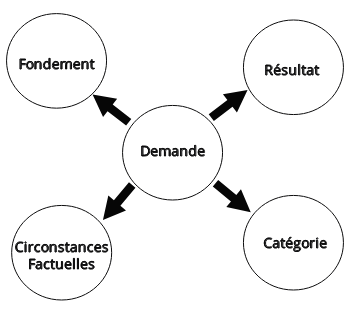
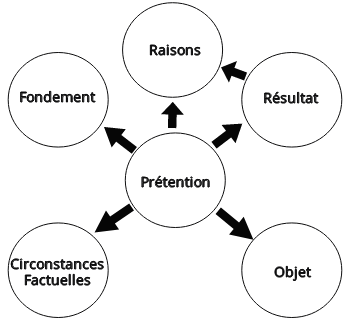
1

diff --git a/content/introduction.tex b/content/introduction.tex
@@ -4,84 +4,110 @@
 
 \section{Contexte et Motivations}
 \label{sec:intro:contexte}
-Une décision judiciaire peut être définie soit comme  le résultat rendu par des juges à l'issue d'un procès, ou bien un document décrivant une affaire judiciaire en résumant les faits, les procédures suivies, la solution des juges, et les raisons qui les y ont conduits. \textcolor{red}{UNE DÉCISION JURISPRUDENTIELLE vs. DÉCISION JUDICIAIRE?}. Un corpus de décisions jurisprudentielles ou une jurisprudence\footnote{\url{http://www.toupie.org/Dictionnaire/Jurisprudence.htm}} est par conséquent un ensemble de décisions rendues par les tribunaux et qui représente la manière dont les tribunaux interprètent le droit et les lois pour résoudre un problème juridique donné (type de contentieux). Les décisions sont des documents rédigés par des juges et par conséquence, elles regroupent les éléments de l'affaire\footnote{Depuis le véritable début du contentieux} que ces juges ont retenu comme étant importants à considérer pour prendre leurs décisions sur les prétentions des différentes parties. La compréhension des décisions tourne donc autour des demandes des parties et résultats des juges.
+Une décision jurisprudentielle peut être définie soit comme  le résultat rendu par des juges à l'issue d'un procès, ou bien un document décrivant une affaire judiciaire. Un tel document rapporte, en fait,  les faits, les procédures judiciaires, la solution des juges, et les raisons qui les y ont conduits. Dans ce mémoire, nous désignons par \og décision \fg{} le document, et par  \og résultat\fg{} la conclusion, ou réponse, ou solution finale des juges. Une jurisprudence\footnote{\url{http://www.toupie.org/Dictionnaire/Jurisprudence.htm}} est un ensemble de décisions rendues par les tribunaux et qui représente la manière dont ces derniers interprètent les lois pour résoudre un problème juridique donné (type de contentieux). Les juristes doivent collecter ces documents, en sélectionner et analyser pour leurs études. En effet, leur analyse aide à mieux comprendre la prise de décision des juridictions, par exemple, pour des recherches empiriques en droit \citep{ancel2003expulsion, jeandidier2006pensions}. Les avocats exploitent aussi les décisions passées pour anticiper les résultats des juges. Ils peuvent ainsi mieux conseiller leurs clients sur le risque judiciaire que ces derniers encourent, et sur la stratégie à adopter dans un contentieux. Cette activité de collecte et d'analyse est manuelle en général, et par conséquent, sujette à plusieurs difficultés liées à l'accès aux données et à l'exhaustivité de cette analyse. 
 
-Les décisions judiciaires sont essentielles pour les juristes qui ont l'habitude d'en collecter, sélectionner et analyser pour résoudre les problèmes auxquels ils s'intéressent afin de mieux comprendre \citep{ancel2003expulsion} et anticiper (par ex. les avocats pour leur clients) les décisions des juges. Généralement manuelle, cette analyse rencontre quelques limites. D'abord, l'accès à un corpus exhaustif de décisions est difficile vu l'énorme volume de décisions réparti dans les juridictions (plus de 4 millions de décisions en France par an d'après les chiffres du ministère français de la justice \footnote{\url{http://www.justice.gouv.fr/budget-et-statistiques-10054/chiffres-cles-de-la-justice-10303/}} comme l'illustre le Tableau \ref{tab:intro:nbdecisionstats}). Malgré la disponibilité d'un nombre important de décisions en ligne, les moteurs de recherche juridiques proposent essentiellement des critères à mots-clés. 
-\begin{table}[ht]
-{
-\scriptsize
+Les documents sont dispersés entre les tribunaux. Les procédures administratives ne facilitent pas toujours leur accès du fait de la nécessité de préserver la confidentialité des parties. Les décisions n'étant pas anonymisées ne peuvent être rendues aux juristes qui en font la demande. Un certain nombre de documents sont néanmoins accessibles sur internet grâce à des sites de publication de données ouvertes gouvernementales comme \url{data.gouv.fr} qui applique progressivement la loi sur les données ouvertes ??? en publiant régulièrement les décisions récentes.  Il existe aussi des moteurs de recherche juridique qui permettent d'effectuer de retrouver des décisions intéressantes. Cependant, qu'ils soient payant (LexisNexis, dalloz, lamy,...) ou gratuits (legifrance), leurs critères de recherche limitent la pertinence des résultats. En effet, il ne s'agit en général que de combinaisons de mots-clés et autres métadonnées (date, type de juridiction, ...), ou d'expressions régulières, comme l'illustre la Figure \ref{fig:intro:juriSearchForm}. Ces critères manquent la sémantique juridique qui ramènerait, aux juristes, des échantillons plus pertinents. 
+
+\begin{figure}
+	\centering
+	\begin{subfigure}[t]{0.95\textwidth}
+		\centering
+		\includegraphics[width=0.9\textwidth]{legifrance.PNG}
+		\caption{\url{www.legifrance.gouv.fr}}
+	\end{subfigure}%
+
+	\begin{subfigure}[t]{0.45\textwidth}
+		\centering
+		\includegraphics[scale=0.4]{dalloz.png}
+		\caption{\url{www.dalloz.fr}}
+	\end{subfigure}\hfill
+	\begin{subfigure}[t]{0.55\textwidth}
+		\centering
+		\fbox{\includegraphics[scale=0.35]{lexisnexis.png}}
+		\caption{\url{www.lexisnexis.com}}
+	\end{subfigure}%
+	\caption{Exemples de critères des moteurs de recherche juridique}\label{fig:intro:juriSearchForm}
+\end{figure}
+
+L'exhaustivité de l'analyse, ou tout au moins sa représentativité, rencontre un frein face à l'énorme volume existant de documents. En effet, plus de 4 millions de décisions sont prononcées en France par an d'après les chiffres du ministère français de la justice (Tableau \ref{tab:intro:nbdecisionstats}). Au regard de la croissance rapide de la quantité de décisions, on imagine facilement que même pour une étude sur une question très précise, le corpus utile reste large. Par ailleurs, il peut s'avérer très pénible de lire les décisions pour en identifier les données d'intérêt. Les documents sont très souvent longs. Ils sont aussi complexes dans leur style de rédaction. Par exemple, les phrases sont longues et comprennent plusieurs clauses discutant parfois d'aspects différents. On y retrouve aussi des références à des jugements antérieurs, et des omissions, ...
+\begin{table}
+\small
 \begin{center}
-\begin{tabular}{|l|c|c|c|c|c|}
-\hline
- & \textbf{2010} & \textbf{2011} & \textbf{2012} & \textbf{2013} & \textbf{2014} \\
- \hline
- \textbf{Justice civile} & 2 673 131  & 2 654 179 & 2 647 813 & 2 761 554  & 2 618 374 \\
- \hline
-Justice pénale & 1 173 242 & 1 180 586 & 1 251 979 & 1 303 469 & 1 203 339 \\
- \hline
- Justice administrative & 224 787 & 225 608 & 228 680 & 221 882 & 230 477 \\
- \hline
+\begin{tabular}{|l|l|l|l|l|l|}
+	\hline
+\textbf{Justice}	& \textbf{2013}      & \textbf{2014}      & \textbf{2015}      & \textbf{2016}      & \textbf{2017}      \\ \hline
+	civile         & 2 761 554 & 2 618 374 & 2 674 878 & 2 630 085 & 2 609 394 \\ \hline
+	pénale         & 1 303 469 & 1 203 339 & 1 206 477 & 1 200 575 & 1 180 949 \\ \hline
+	administrative & 221 882   & 230 477   & 228 876   & 231 909   & 242 882   \\ \hline
 \end{tabular}
 
-\textit{\scriptsize{Source: \url{http://www.justice.gouv.fr/budget-et-statistiques-10054/chiffres-cles-de-la-justice-10303/}}}  
+\textit{\scriptsize{Source: \url{http://www.justice.gouv.fr/statistiques-10054/chiffres-cles-de-la-justice-10303/}}}  
 \end{center}
-}
-\caption{Nombre de décisions prononcées en France par an de 2010 à 2014}\label{tab:intro:nbdecisionstats}
+\caption{Nombre de décisions prononcées en France par an de 2013 à 2017}\label{tab:intro:nbdecisionstats}
 \end{table}
 
-D'autre part, l'analyse manuelle de décisions peut devenir pénible lorsque les documents sont longs et nombreux.  Par ailleurs, la justice est complexe et son langage difficilement compréhensible \citep{cretin2014justicecomplexe} pour permettre aux non-juristes d'estimer le risque judiciaire qu'ils encourent sans l'aide d'un initié en droit. D'une part, une analyse automatisée des décisions jurisprudentielles peut aider des avocats et chercheurs en droit à comprendre l'opinion des juges sur certaines questions. L'exigence pour le profane étant l'exacte pertinence des resources, leur accessibilité, et l'intituivité du processus de leur exploition \citep{narazenko2017legalnlpintro}. D'autre part, elle constitue potentiellement une aide précieuse pour les particuliers et entreprises soucieux de connaitre les chances que leurs requêtes aboutissent en justice.  De telles analyses sont indispensables pour les pratiquants du droit car elles fournissent un ensemble important d'information d'une valeur inestimable dont notamment un aperçu de l'application de la loi. L'extraction automatique d'information pertinente à cette étude aiderait à mieux décrire et organiser les décisions tout en enrichissant les critères de recherche avec par exemple les noms de juges ou les articles de loi. Ce mémoire présente les résultats d'une étude visant à automatiser l'extraction d'information à partir de ces documents afin de faciliter la recherche et les analyses descriptives et prédictives d'un corpus jurisprudentiel. La principale motivation est l'exhaustivité qui passe nécessairement par un traitement rapide et efficace de la grande masse de documents produit par la justice. La question à la base de notre étude est celle de savoir "Comment exploiter un corpus de décisions pour analyser, voire prédire, les décisions des juges sachant que l'interprétation subjective des règles juridiques rend l'application de la loi non déterministe ?". Cette question intéresse de nombreuses entreprises telles que LexisNexis avec son système LexMachina\footnote{\url{https://lexmachina.com}}, et de jeunes startups françaises telles que Predictice\footnote{\url{http://predictice.com}} et CASE LAW ANALYTICS\footnote{\url{http://caselawanalytics.com}}. Afin d'y répondre, nous sommes partis d'une conception théorique considérant la demande ou prétention des parties comme le concept central d'une décision (Figure \ref{fig:intro:demande-central}) et tout autour s'affectent d'autres concepts, notamment, le résultat des juges relatif à cette prétention, le fondement juridique de la prétention ou norme, la catégorisation des prétentions, et ensuite les différentes circonstances factuelles dans lesquelles cette prétention est généralement formulée. 
 
-\begin{figure}[h]
+%\textcolor{red}{Introduire l'utilité de l'automatisation}
+Il est évident qu'une automatisation du traitement des corpus de décisions s'impose pour répondre aux diverses difficultés d'accès, de volumétrie, et de complexité liées à la compréhension des décisions. L'idée est de faire gagner du temps aux juristes sur des tâches d'aide à leur raisonnement d'experts, tout en leur fournissant une vue pertinente de la jurisprudence autant sur le plan sémantique que synthétique. Par ailleurs, \citet{cretin2014justicecomplexe} fait remarquer que la justice est complexe dans son organisation (Figure \ref{orgjusticefrance}) et son fonctionnement, et son langage est presque incompréhensible. Il est donc difficile aux profanes d'estimer leurs droits et le risque judiciaire qu'ils encourent dans leur quotidien sans consulter un initié en droit. L'automatisation pourrait aussi améliorer l'accessibilité du droit dans ce cas.  L'exigence pour le profane étant l'exacte pertinence des ressources, leur accessibilité, et l'intuitivité du processus de leur exploitation \citep{narazenko2017legalnlpintro}. Le traitement automatique constitue en résumé une aide précieuse non seulement pour les professionnels du droit, mais aussi pour les particuliers et entreprises soucieux de les chances que l'issue d'un procès, les impliquant, leur soit favorable. Une telle information a une valeur inestimable car elle les aiderait par exemple à se décider entre un arrangement à l'amiable et la poursuite de leur offenseur en justice \citep{langlaischappe2009ecoresolutionlitige}.
+
+\begin{figure}
+	\centering \includegraphics[width=0.9\textwidth]{organisation_justice_francaise_grand.jpg}
+	
+	\textit{\scriptsize{Source: \url{http://www.justice.gouv.fr/organisation-de-la-justice-10031/}}}  
+	\caption{Organisation des institutions judiciaires françaises} \label{orgjusticefrance}
+\end{figure}
+
+\section{Objectifs}
+%\textcolor{red}{Description d'une approche traditionnelle, exemple d'études, difficultés de ces études}
+ Ce mémoire discute des résultats d'une étude visant à automatiser l'extraction d'information à partir des décisions afin de faciliter la recherche, et les analyses descriptives et prédictives d'un corpus jurisprudentiel. L'approche traditionnelle d'analyse d'un contentieux ou d'une demande \citep{ancel2003expulsion} consiste à :
+ \begin{enumerate}
+ 	\item \textbf{choisir un échantillon représentatif}: collection des décisions suivant des contraintes définies:  période précise et d'une couverture géographique, types d'affaires (types d' évidents et types marginaux), diversité, hétérogénéité. 
+ 	\item \textbf{Sélectionner les décisions}: élimination des décisions qui ne correspondent pas au type de demande d'intérêt.
+ 	\item \textbf{Elaborer la grille d'analyse}: création d'un modèle de grille (tableau) qui permettra d'enregistrer les informations "potentiellement importantes". Chaque ligne correspond à une demande et les colonnes sont les différents types d'informations qu'on peut extraire sur une demande. Ces variables vont de la procédure suivie, aux solutions proposées en passant par la nature de l'affaire. Les champs à remplir ne sont pas connus à l'avance; c'est la lecture des décisions qu'on retrouve les informations qui paraissent intéressant à observer.
+ 	\item \textbf{L'analyse des décisions et l'interprétation des informations}: saisie des décisions et statistique sur un logiciel tableur comme MS Excel pour généralement observer la répartition des décisions suivant.
+ \end{enumerate}
+ 
+\citet{ancel2003expulsion} évoque principalement le problème de la différence entre l'état capté de la jurisprudence et son état présent. En effet, Les longs délais de travail sont caractéristiques de ces études. Nous avons pour exemple, l'analyse empirique des déterminants de la fixation de pensions alimentaires pour enfant lors de divorce réalisée par l'équipe de Bruno Jeandidier \citep{jeandidier2006pensions}. Cette analyse a duré 9 mois pour l'extraction manuelle des informations et la modélisation par régression de la relation entre les déterminant extraits et les pensions alimentaires accordées.  D'autre part, il est impossible d'observer l'évolution des pratiques judiciaires dans le temps et dans l'espace du fait de la faible taille de l'échantillon choisie. Notre principal objectif est donc de proposer des solutions pour un traitement rapide et efficace d'une grande masse de décisions. 
+ 
+ La question à la base de notre étude est celle de savoir \og comment capter automatiquement la sémantique d'un corpus jurisprudentiel pour comprendre la prise de décision des juges sachant que l'interprétation subjective des règles juridiques rend l'application de la loi non déterministe ? \fg{}. Cette question intéresse des entreprises telles que LexisNexis, et plusieurs startups  à l'exemple de Predictice\footnote{\url{http://predictice.com}} et CASE LAW ANALYTICS\footnote{\url{http://caselawanalytics.com}}. Afin d'y répondre, nous nous intéressons  aux concepts manipulés par les experts au centre desquels on retrouve la demande ou prétention des parties. Tout autour de la demande, gravitent d'autres concepts importants qui enrichissent la compréhension de la décision (Figure \ref{fig:intro:demande-central}): 
+ \begin{itemize}
+	\item le résultat associé qui est décrite par une polarité (\og accepte \fg{} ou \og rejette \fg{}), souvent un quantum accordé (par ex. 5000 euros, 2 mois d'emprisonnement);
+	\item le fondement ou la norme juridique qui est la règle qui détermine et légitime la prétention ou le résultat;	
+	\item l'objet qui représente ce qui a été demandé (par ex. dommages et intérêts);
+	\item les circonstances factuelles 	dans lesquelles sont formulées les demandes; ils décrivent les types de faits caractérisant ainsi les types de contentieux ou d'affaires;
+	\item les raisons c'est-à-dire les divers arguments apportés par les parties (resp. les juges) pour justifier leurs requêtes (resp. leurs solutions);
+ \end{itemize}
+
+\begin{figure}
     \centering
-    \includegraphics[scale=0.75]{demande-central.png}
-    \caption{La demande au centre de l'analyse des décisions}
+    \includegraphics[scale=0.85]{demande-central.png}
+    \caption{La demande au centre de la compréhension des décisions}
     \label{fig:intro:demande-central}
 \end{figure}
 
-En fait, La granularité de l'analyse est affinée jusqu'à la demande car dans une décision, les juges apportent une réponse à chaque demande, et par conséquent une partie peut voir certaines de ses demandes acceptées complètement, lorsque d'autres accordées partiellement, et le reste est rejetée.  Ceci revoit en effet les modélisations prédictives qui ne s'attardaient qu'à déterminer globalement si le plaintif a  gagné ou perdu le procès sans estimer précisement ce que chaque partie a obtenu. Un juriste sera donc plus intéressé à formuler les demandes qui ont de meilleures chances d'être acceptées qu'à prévoir une victoire du procès. Par ailleurs, les juristes s'intéressent généralement à un type de contentieux à la fois et surtout à des types particuliers de demandes s'appuyant sur une règle ou un principe juridique appelé "fondement". Ainsi, une analyse devrait se faire dans un contexte bien précis, défini par ces différents concepts.
+En fait, cette abstraction couvre l'essentiel de l'information pertinente pour les experts.  L'analyse sémantique vise donc à identifier les connaissances sur les nombreuses demandes présentent dans les décisions. 
 
-
-Le problème posé dans notre cas vise principalement l'élaboration d'un modèle prédictif de conséquences judiciaires par l'analyse de jurisprudence. Plus précisément, comment peut-on partir de la jurisprudence d'un type de demande et anticiper le verdict des juges? L'approche est simple: retrouver les décisions portant sur des demandes du type considéré, puis les analyser pour trouver les raisons potentielles pour lesquelles les juges ont pris telle ou telle autre décision. C'est une approche qu'exercent régulièrement les tribunaux pour résoudre de nouveaux jugements, et les avocats et chercheurs pour connaître la pratique judiciaire et donc l'interprétation de la loi généralement adoptée par les tribunaux.
-
-%\textcolor{red}{Description d'une approche traditionnelle, exemple d'études, difficultés de ces études}
-
-L'approche traditionnelle d'analyse d'un contentieux ou d'une demande \citep{ancel2003expulsion} consiste à :
-\begin{enumerate}
-\item \textbf{choisir un échantillon représentatif}: collection des décisions suivant des contraintes définies:  période précise et d'une couverture géographique, types d'affaires (types d' évidents et types marginaux), diversité, hétérogénéité. 
-\item \textbf{Sélectionner les décisions}: élimination des décisions qui ne correspondent pas au type de demande d'intérêt.
-\item \textbf{Elaborer la grille d'analyse}: création d'un modèle de grille (tableau) qui permettra d'enregistrer les informations "potentiellement importantes". Chaque ligne correspond à une demande et les colonnes sont les différents types d'informations qu'on peut extraire sur une demande. Ces variables vont de la procédure suivie, aux solutions proposées en passant par la nature de l'affaire. Les champs à remplir ne sont pas connus à l'avance; c'est la lecture des décisions qu'on retrouve les informations qui paraissent intéressant à observer.
-\item \textbf{L'analyse des décisions et l'interprétation des informations}: saisie des décisions et statistique sur un logiciel tableur comme MS Excel pour généralement observer la répartition des décisions suivant.
-\end{enumerate}
-
-Les longs délais (distance entre l'état capté et l'état actuel) et l'impossibilité d'observer l'évolution des pratiques dans le temps et dans l'espace sont les principales limites de cette approche \citep{ancel2003expulsion}.
-
-Nous traitons d'un sujet en forte relation avec d'autres domaines dont notamment l'analyse économique du droit en ce sens que les informations que notre système extrait faciliteront et accéléreront les analyses empirique menées par les économistes. Nous avons pour exemple, l'analyse empirique des déterminants de la fixation de pensions alimentaires pour enfant lors de divorce réalisée par l'équipe de Bruno Jeandidier \citep{jeandidier2006pensions}. Cette analyse a duré 9 mois pour l'extraction manuelle des informations et la modélisation par régression de la relation entre les déterminant extraits et les pensions alimentaires accordées. L'automatisation est destinée à alléger les méthodes traditionnels de remplissage des grilles d'analyse en extrayant automatiquement les informations pertinentes.
-
-Les travaux de cette thèse s'inscrivent dans un projet qui vise, entre autres, l'automatisation de l'analyse empirique des contentieux pour observer de manière exhaustive et synthétique les pratiques judiciaires. L'objectif final est d'obtenir un système capable de fournir une estimation des chances d'obtenir un résultat positif suivant des critère comme la juridiction, le type de demande, ainsi que les faits du contentieux, et d'identifier les facteurs influençant le résultat. Le projet comprend deux phases principales : une phase d'indexation des connaissances de la masse des décisions, suivie d'une phase d'analyse prédictive. La phase d'indexation doit déjà permettre de réaliser automatiquement des analyses descriptives plus exhaustives. Les analyses descriptives consisteront par exemple à comparer le nombre d'acceptations au nombre de rejets, comparer les quanta demandés et accordés, analyser l'évolution temporelle et la différence spatiale de la prise de décision dans les juridictions. Par conséquent, le système doit apprendre à reconnaître dans les décisions, les informations pertinentes: prétention (partie, objet, fondement) et résultat de la prétention. De plus, les informations extraites doivent s'insérer dans des catégories qui ont un sens en droit. Il y a donc une étape de constitution d'une ontologie des prétentions (réalisée par des experts juriste ou de manière automatisée si possible). Il y a une étape de constitution des bases d'apprentissage et de test pour l'entraînement à la reconnaissance des prétentions et des résultats.
-Pour la phase d'analyse prédictive, on doit regrouper des paquets de décisions homogènes (même résultat sur la même prétention dans les circonstances similaires), pour découvrir les facteurs influençant la sens du résultat (par ex. le fait que "le revenu de l'époux soit le plus élevé du foyer" encourage les juges à accorder la pension alimentaire à l'épouse). En effet, c'est la connaissance de ces facteurs permet à l'expert juriste de pouvoir anticiper les décisions judiciaires.
-
-Ce document n'aborde pas l'aspect prédictif du projet. Notre étude s'est limitée aux problématiques liées à l'analyse descriptive et décrites dans la section suivante.
-
-\section{Problématiques techniques soulevées}
-\label{sec:intro:probleme}
-L'analyse automatique de décisions jurisprudentielles fait références à de nombreux problèmes rencontrés par les juristes lors de leur analyse manuelle (\textcolor{red}{par exemple?}). 
-
-La chaîne de traitement à mettre en \oe uvre consiste en quatre phases principales s'enchainant comme le présente la figure \ref{fig:intro:pipeline-globale}. Les problématiques relatives à chacune de ces phases sont détaillées dans les sous-sections suivantes.
-\begin{figure}[h]
-\includegraphics[width=\textwidth]{pipeline-cassandra.pdf}
-\caption{Chaine d'analyse du corpus jurisprudentiel à mettre en \oe uvre} \label{fig:intro:pipeline-globale}
+Les travaux de cette thèse s'inscrivent dans un projet qui vise, entre autres, l'automatisation de l'analyse empirique des contentieux pour observer de manière exhaustive et synthétique les pratiques judiciaires. L'objectif final est d'obtenir un système capable de fournir une estimation des chances d'obtenir un résultat positif suivant des critères comme la juridiction, le type de demande, ainsi que les faits du contentieux, et d'identifier les facteurs influençant le résultat. Le projet comprend deux phases principales : une phase d'indexation des connaissances de la masse des décisions, suivie d'une phase d'analyse prédictive. La phase d'indexation doit déjà permettre de réaliser automatiquement, de manière plus exhaustives, des analyses descriptives.Ces dernières consistent par exemple à comparer le nombre d'acceptations à la fréquence des rejets, comparer les quanta demandés et accordés, analyser l'évolution temporelle et la différence spatiale de la prise de décision dans les juridictions. Par conséquent, le système doit apprendre à reconnaître dans les décisions, les informations pertinentes sur les prétention et résultats associés. Pour la phase d'analyse prédictive, le principe consiste à regrouper des paquets de décisions homogènes (même résultat sur la même prétention dans les circonstances similaires), pour découvrir les facteurs influençant le sens du résultat (par ex. le fait que \og le revenu de l'époux soit le plus élevé du foyer\fg{} encourage les juges à accorder la pension alimentaire à l'épouse). En effet, c'est la connaissance de ces facteurs qui permet à l'expert de pouvoir anticiper les décisions judiciaires. La chaîne de traitement à mettre en \oe uvre consiste en quatre étapes principales qui s'enchaînent comme le présente la figure \ref{fig:intro:pipeline-globale}. 
+\begin{figure}
+	\includegraphics[width=\textwidth]{pipeline-cassandra.pdf}
+	\caption{Chaine d'analyse du corpus jurisprudentiel à mettre en \oe uvre} \label{fig:intro:pipeline-globale}
 \end{figure} 
 
-Dans le cadre de notre travail, nous avons définie et traité les quelques problèmes principaux décrits dans les sous-sections suivantes.
+Ce mémoire n'aborde pas l'aspect prédictif du projet. Notre étude s'est limitée aux problématiques liées à l'analyse descriptive, et qui sont décrites dans la section suivante.
 
-\subsection{Collecte, gestion et pré-traitement des données}
+\section{Problématiques d'analyse descriptive}
+\label{sec:intro:probleme}
 
-Malgré le fait que les décisions de justice civile sont les premières visées, ce projet a l'ambition de couvrir la majorité des juridictions des 1er et 2nd degrés. Le volume de décisions prononcées est énorme et croit très rapidement mais pratiquement de manière constante (table \ref{tab:intro:nbdecisionstats}).
+Les analyses descriptives exigent de répondre à diverses problématiques techniques dont les principales sont décrites dans les sous-sections suivantes.
 
-Les décisions de cours d'appel de la justice civile sont les plus accessibles à travers les moteurs de recherche juridique (LexisNexis\textregistered, 
-Dalloz\textregistered, LamyLine\textregistered, Legifrance\textregistered, ...) et la grande base de données JURICA de la Cour de cassation. Cependant, l'accès à ces décisions est généralement payant. Le nombre de décisions téléchargeables simultanément est très faibles sur les sites payants (généralement 20 décisions au maximum). En plus, au bout d'un certain nombre de téléchargements, les sites se bloquent automatiquement. La base JURICA forunit la plus grosse base de décisions de cours d'appel (justice civile) en France. Elle est gérée par la Cour de cassation. L'accès à cette base est offert par Le service de documentation, des études et du rapport\footnote{\url{https://www.courdecassation.fr/institution_1/composition_56/etudes_rapport_28.html}} (SDER). Cet accès est payant pour les professionnels et gratuit pour les universités et centres de recherche en partenariat avec le SDER (moyennant un accord de partenariat). L'accès public et gratuit est fourni principalement par Legifrance, le moteur de recherche juridique du ministère de la justice. Les décisions y sont identifiées à l'aide de numéros consécutifs et accessibles à partir d'un service web à l'aide d'une requête GET du protocole HTTP. Ainsi, à l'aide d'une boucle, il est possible de programmer un client web capable de télécharger l'ensemble des décisions de Legifrance. LegiFrance a cet avantage de proposer des décisions de tous les ordres et de tous les degrés. Cependant, les décisions des juridictions du 1er restent plus rares sur internet et pincipalement disponibles auprès des tribunaux et autres juridictions de premier jugement.
+\subsection{Collecte, gestion et pré-traitement des documents}
 
-Les décisions existent sous divers formats PDF, DOC, DOCX, RTF, TXT, XML,... Il arrive parfois qu'un fichier téléchargé comprenne plusieurs décisions. Les décisions sont collectées à partir de diverses sources peuvant contenir des documents similaires. Le stockage des documents originaux pose ainsi le problème de redondance et d'identification des décisions. \textit{Comment savoir qu'une nouvelle décision existe déjà ou pas dans le corpus constitué?}. D'autre part, certains moteurs de recherche fournissent souvent des résumés de décisions à la place du contenu original des décisions. Il est important de les supprimer du corpus. Un système de gestion des données collectées est donc nécessaire pour identifier et stocker efficacement les décisions avant que tout traitement d'extraction d'information ne leur soit appliqué.
+Malgré le fait que les décisions de justice civile sont les premières visées, ce projet a l'ambition de couvrir la majorité des juridictions des 1er et 2nd degrés. Le volume de décisions prononcées est énorme et croit très rapidement (table \ref{tab:intro:nbdecisionstats}). Il est donc nécessaire de trouver des moyens pour collecter le maximum de documents bruts non-structurés, les pré-traiter, et aussi organiser leur gestion afin de les indexer en local pour faciliter leur traitement.
+
+Les décisions de cours d'appel de la justice civile sont les plus accessibles à partir des moteurs de recherche juridique (LexisNexis, 
+Dalloz, LamyLine, Legifrance, ...) et de la grande base de données JURICA de la Cour de cassation. Cependant, l'accès à ces décisions est généralement payant et Le nombre de documents simultanément téléchargeables est très faibles sur les sites payants (généralement 10 à 20 décisions au maximum à la fois). En plus, le nombre de téléchargements par jour est limité. La base JURICA forunit la plus grosse base de décisions de cours d'appel (justice civile) en France. Elle est gérée par la Cour de cassation. L'accès à cette base est offert par Le service de documentation, des études et du rapport\footnote{\url{https://www.courdecassation.fr/institution_1/composition_56/etudes_rapport_28.html}} (SDER). Cet accès est payant pour les professionnels et gratuit pour les universités et centres de recherche en partenariat avec le SDER. L'accès public et gratuit est fourni principalement par Legifrance, le moteur de recherche juridique du ministère de la justice. Les décisions y sont identifiées à l'aide de numéros consécutifs et accessibles à partir d'un service web à l'aide d'une requête GET du protocole HTTP. Ainsi, à l'aide d'une boucle, il est possible de programmer un client web capable de télécharger l'ensemble des documents de Legifrance. LegiFrance a cet avantage de proposer des décisions de tous les ordres et de tous les degrés. Cependant, les décisions des juridictions du premier (jugements) restent plus rares sur internet et pincipalement disponibles auprès des tribunaux et autres juridictions de premier jugement.  La facilité d'accès au décisions du second degré ou d'appel (arrêts) en justice civile est l'une des raisons pour lesquelles notre étude s'est portée sur ceux-ci.
+
+Les décisions existent sous divers formats PDF, DOC, DOCX, RTF, TXT, XML,... Il arrive parfois qu'un fichier téléchargé comprenne plusieurs décisions (sur LexisNexis par ex.). Nous avons par conséquent préférer convertir tous les documents au simple format plein texte pour homogénéiser pls facilement les traitement. Par ailleurs, les décisions sont collectées à partir de diverses sources pouvant contenir des documents identiques. Le stockage pose donc le problème d'identification unique des décisions pour éviter des redondances. Pour cela, nous avons défini un schéma de nomination unique des fichiers. Ce dernier repose sur 3 informations: le type de juridiction (tribunal, cour d'appel, ...), la ville, et le numéro R.G. (registre général: l'identifiant unique de la décision au sein de la juridiction). Par exemple, le numéro \og CAREN1606137 \fg{} identifie la décision de numéro R.G. \og 16/06137 \fg{} de la cour d'appel (\og CA \fg{}) de la ville de Rennes (\og REN \fg{}). D'autre part, certains moteurs de recherche ne fournissent souvent qu'un résumé au lieu du contenu original des décisions. Il est important de  supprimer les fichiers de résumé du corpus.
 
 \subsection{Extraction d'information}
 
@@ -90,7 +116,7 @@ La phase de représentation des connaissances porte sur la structuration effecti
 
 D'autre part, la base doit avoir une représentation qui permette de la connectée à des bases externes pour élargir les analyses possibles (par ex. l'observation de la distribution de décisions par région/département nécessite de savoir à quelle région/département appartient chaque ville de la base, mais cette information est absente des textes).
 
-\subsection{Recherche d'information ou analyse descriptive}
+\subsection{Recherche d'information}
 Comment retrouver des décisions similaires à une situation donnée exprimée à l'aide d'un formulaire ou d'une description en langage naturel? La structuration du corpus permet de sélectionner les critères ou propriétés du type d'affaires qu'on veut analyser. Pour permettre une plus grande expressivité de la situation, on pourrait envisager le cas où un particulier, par exemple, voudrait décrire son problème de manière naturelle à l'aide de phrases\footnote{Exemple de situation décrite en langage naturel: \url{http://www.documentissime.fr/questions-droit/question-46724-emprunt-et-divorce.html}}. L'objectif serait dans un premier temps de retrouver les décisions de la base de connaissances qui paraissent similaires à la situation décrite. Ensuite, l'utilisateur  peut s'aider des modèles prédictifs pour effectuer des analyses.
 
 L'automatisation réussi-t-elle à combler les limites de l'approche traditionnelle (par ex. observation de l'évolution des pratiques judiciaires dans le temps).

diff --git a/content/chapter-literature.tex b/content/chapter-literature.tex
@@ -20,7 +20,9 @@ Premièrement, \og Prévenir vaut mieux que guérir!\fg{}. Il est plus qu'évide
 % https://peerj.com/articles/cs-93/
 Le sujet de ce mémoire vise à assister l'analyse quantitative de la prise de décision judiciaire (faisant partie des comportements judiciaires). Il s'agit d'une méthode d'analyse en rupture avec les techniques juridiques traditionnelles déjà critiquées au début des années 60, par des experts de la jurisprudence tels que Karl N. Llewellyn, de souffrir d'une excéssive focalisation sur les règles juridiques qui ne représentent qu'une partie de l'institution juridique \citep{llewellyn1962jurisprudence}. Pour anticiper le comportement judiciaire, plusieurs variables plus ou moins controlables sont indispensables comme le temps, le lieu et les circonstances \citep{ulmer1963quantitative}. Dans notre cas, l'analyse quantitative d'application souhaite profiter du grand nombre de décisions de justice car il est bien connu qu'une collection suffisante d'une certaine forme de données révèle des motifs qui une fois observés sont projetables dans le futur \citep{ulmer1963quantitative}. La prédiction de la prise de décision est ainsi plus accessible que par le formalisme des lois qui ignore l'aléa judiciaire et la spécificité des cas.  Nous discutons dans cette section de quelques techniques d'automatisation de l'analyse quantitative et prédictive des comportements judiciaires, afin de décrire le contexte et justifier les concepts et la granularité judiciaire de notre étude.
 
+\textcolor{red}{PERTINENCE DE LA GRANULARITÉ "DEMANDE" PAR RAPPORT A L'ESTIMATION DES CHANCES DE GAGNER OU PERDRE UN PROCÈS}
 
+La granularité de l'analyse est affinée jusqu'à la demande car dans une décision, les juges apportent une réponse à chaque demande, et par conséquent une partie peut voir ses demandes soit toutes acceptées ou rejetées, soit une partiellement accordées. Un juriste sera donc plus intéressé à formuler les demandes qui ont de meilleures chances d'être acceptées qu'à prévoir une victoire du procès. Par ailleurs, les juristes s'intéressent généralement à un type de contentieux à la fois et surtout à des types particuliers de demandes s'appuyant sur une règle ou un principe juridique appelé "fondement". Ainsi, une analyse devrait se faire dans un contexte bien précis, défini par ces différents concepts.
 
 %\subsection{Pourquoi une centralité des demandes?}
 

diff --git a/tagny-memoire-D.tex b/tagny-memoire-D.tex
@@ -1,4 +1,4 @@
-\documentclass[12pt,a4paper,twoside,openright]{book}
+\documentclass[12pt,a4paper,oneside,openright]{book}
 \usepackage[T1]{fontenc}
 \usepackage[utf8]{inputenc}
 \usepackage{natbib}
